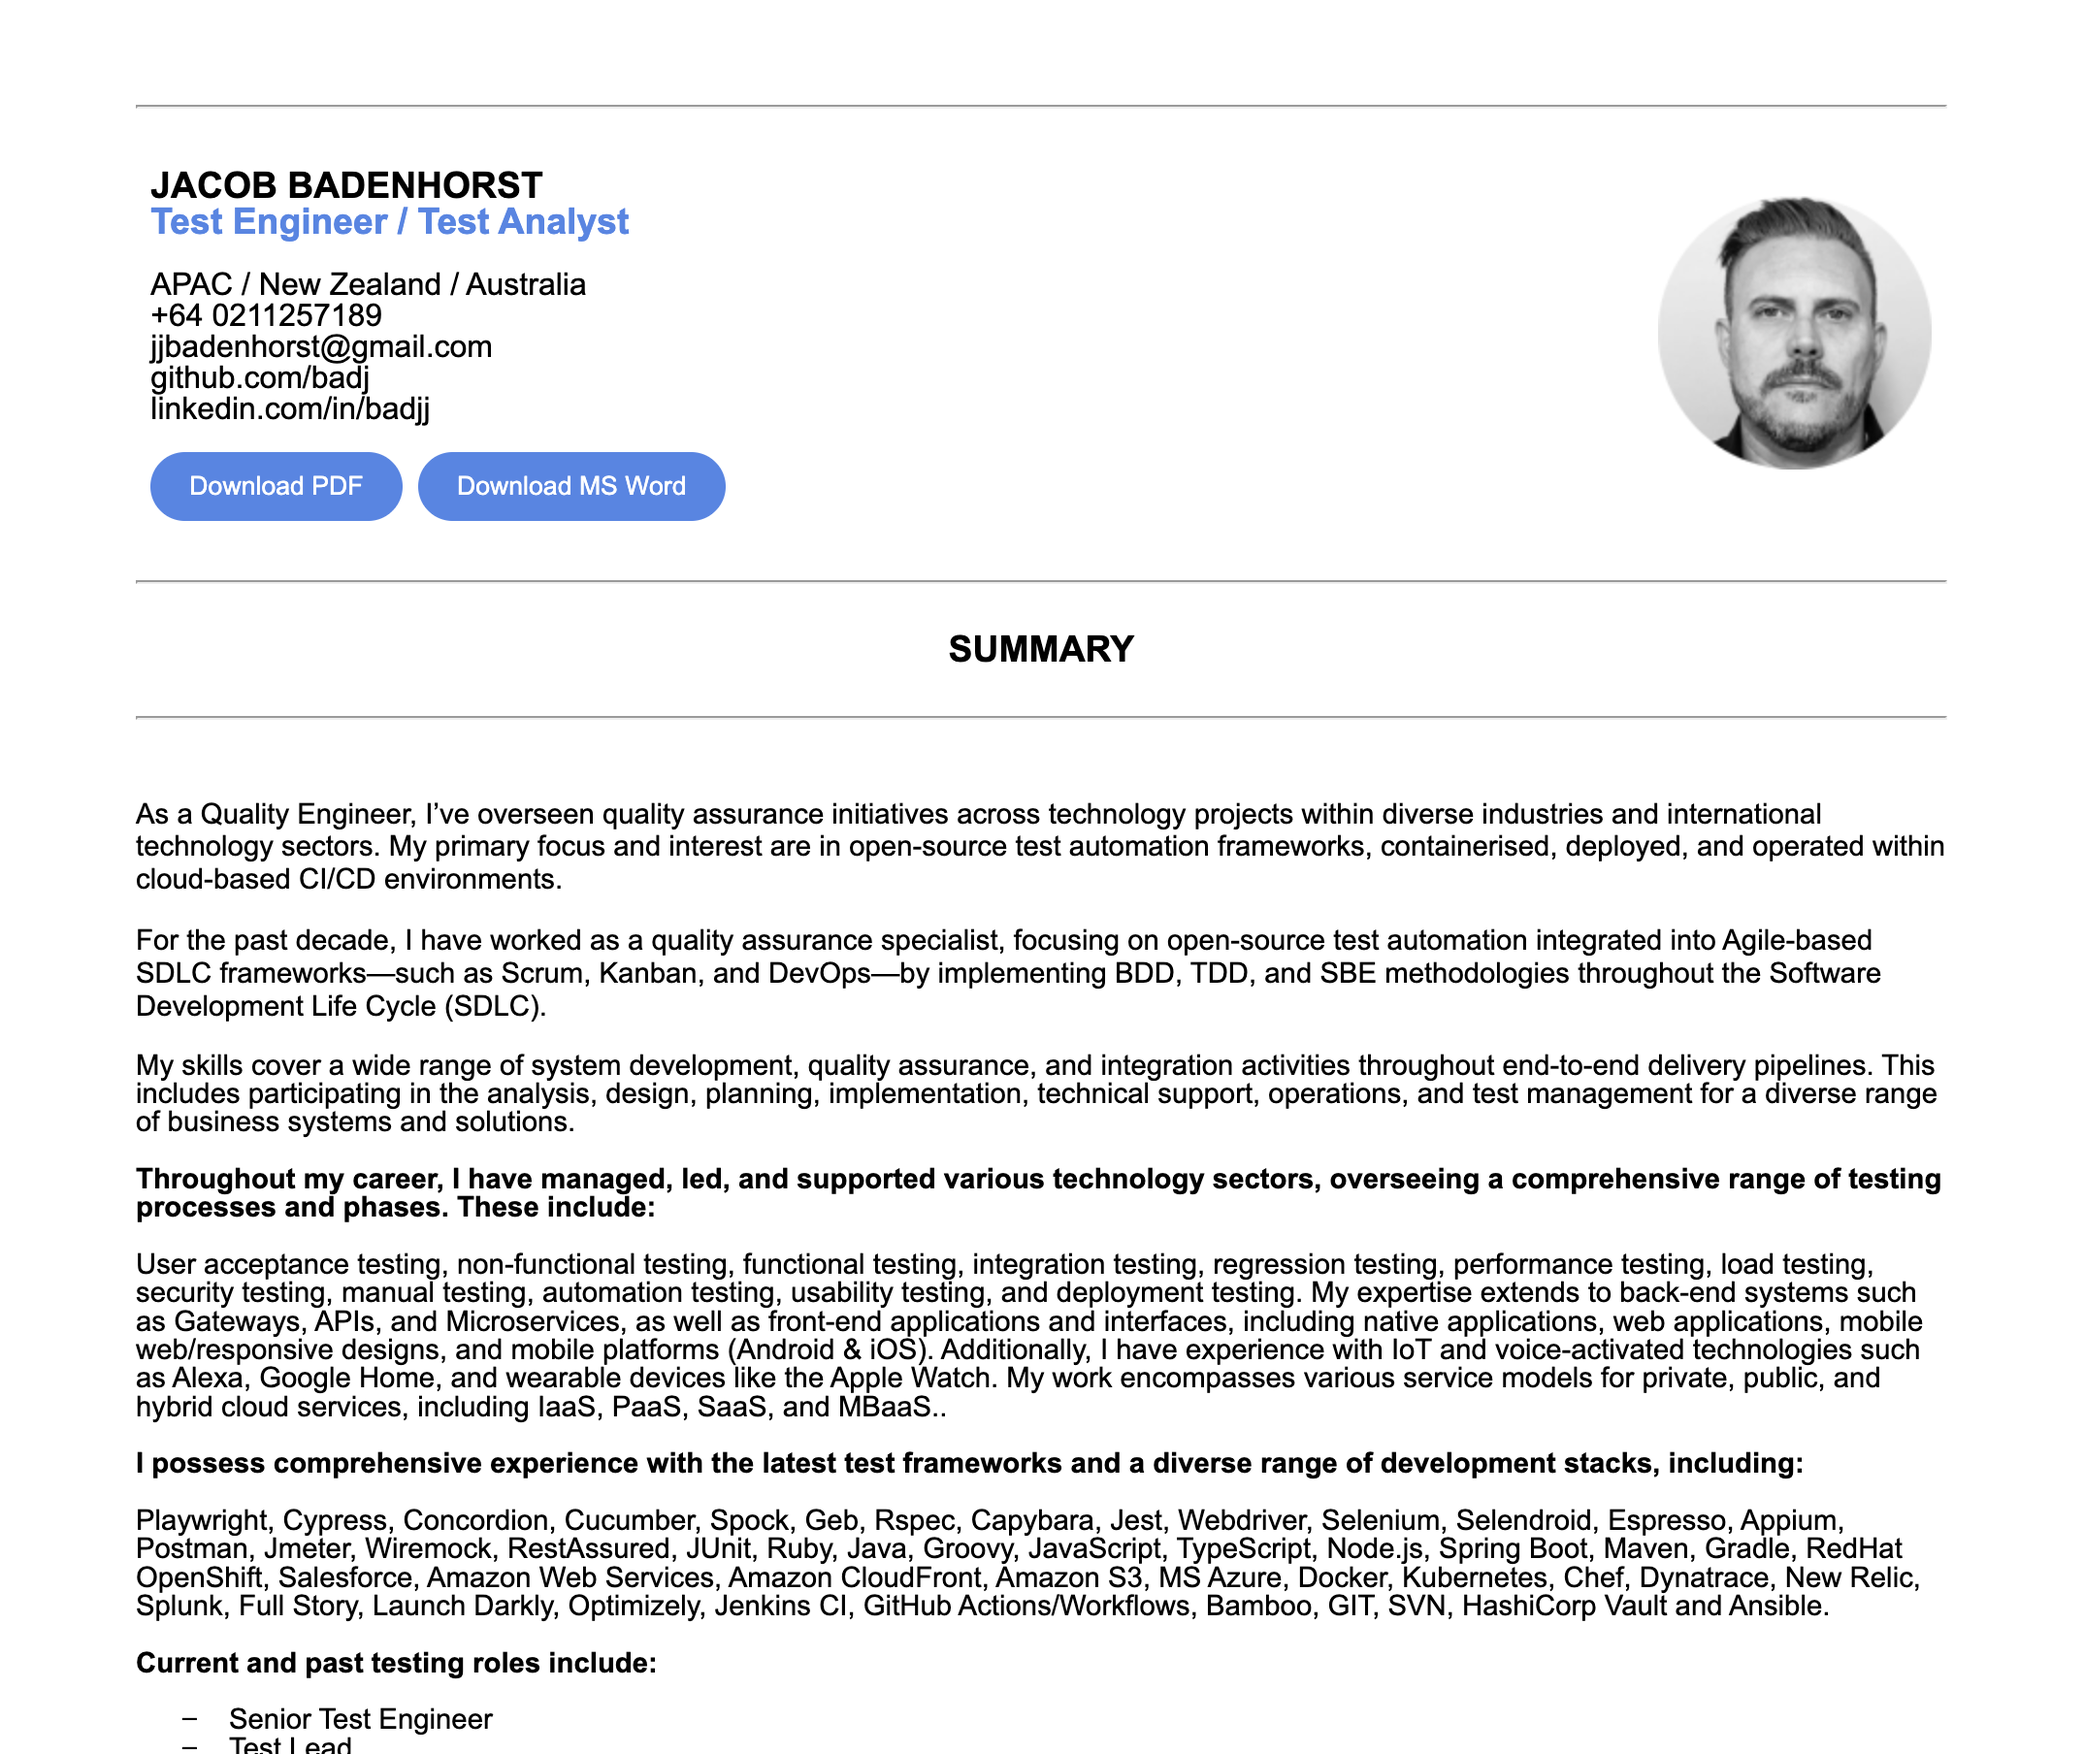
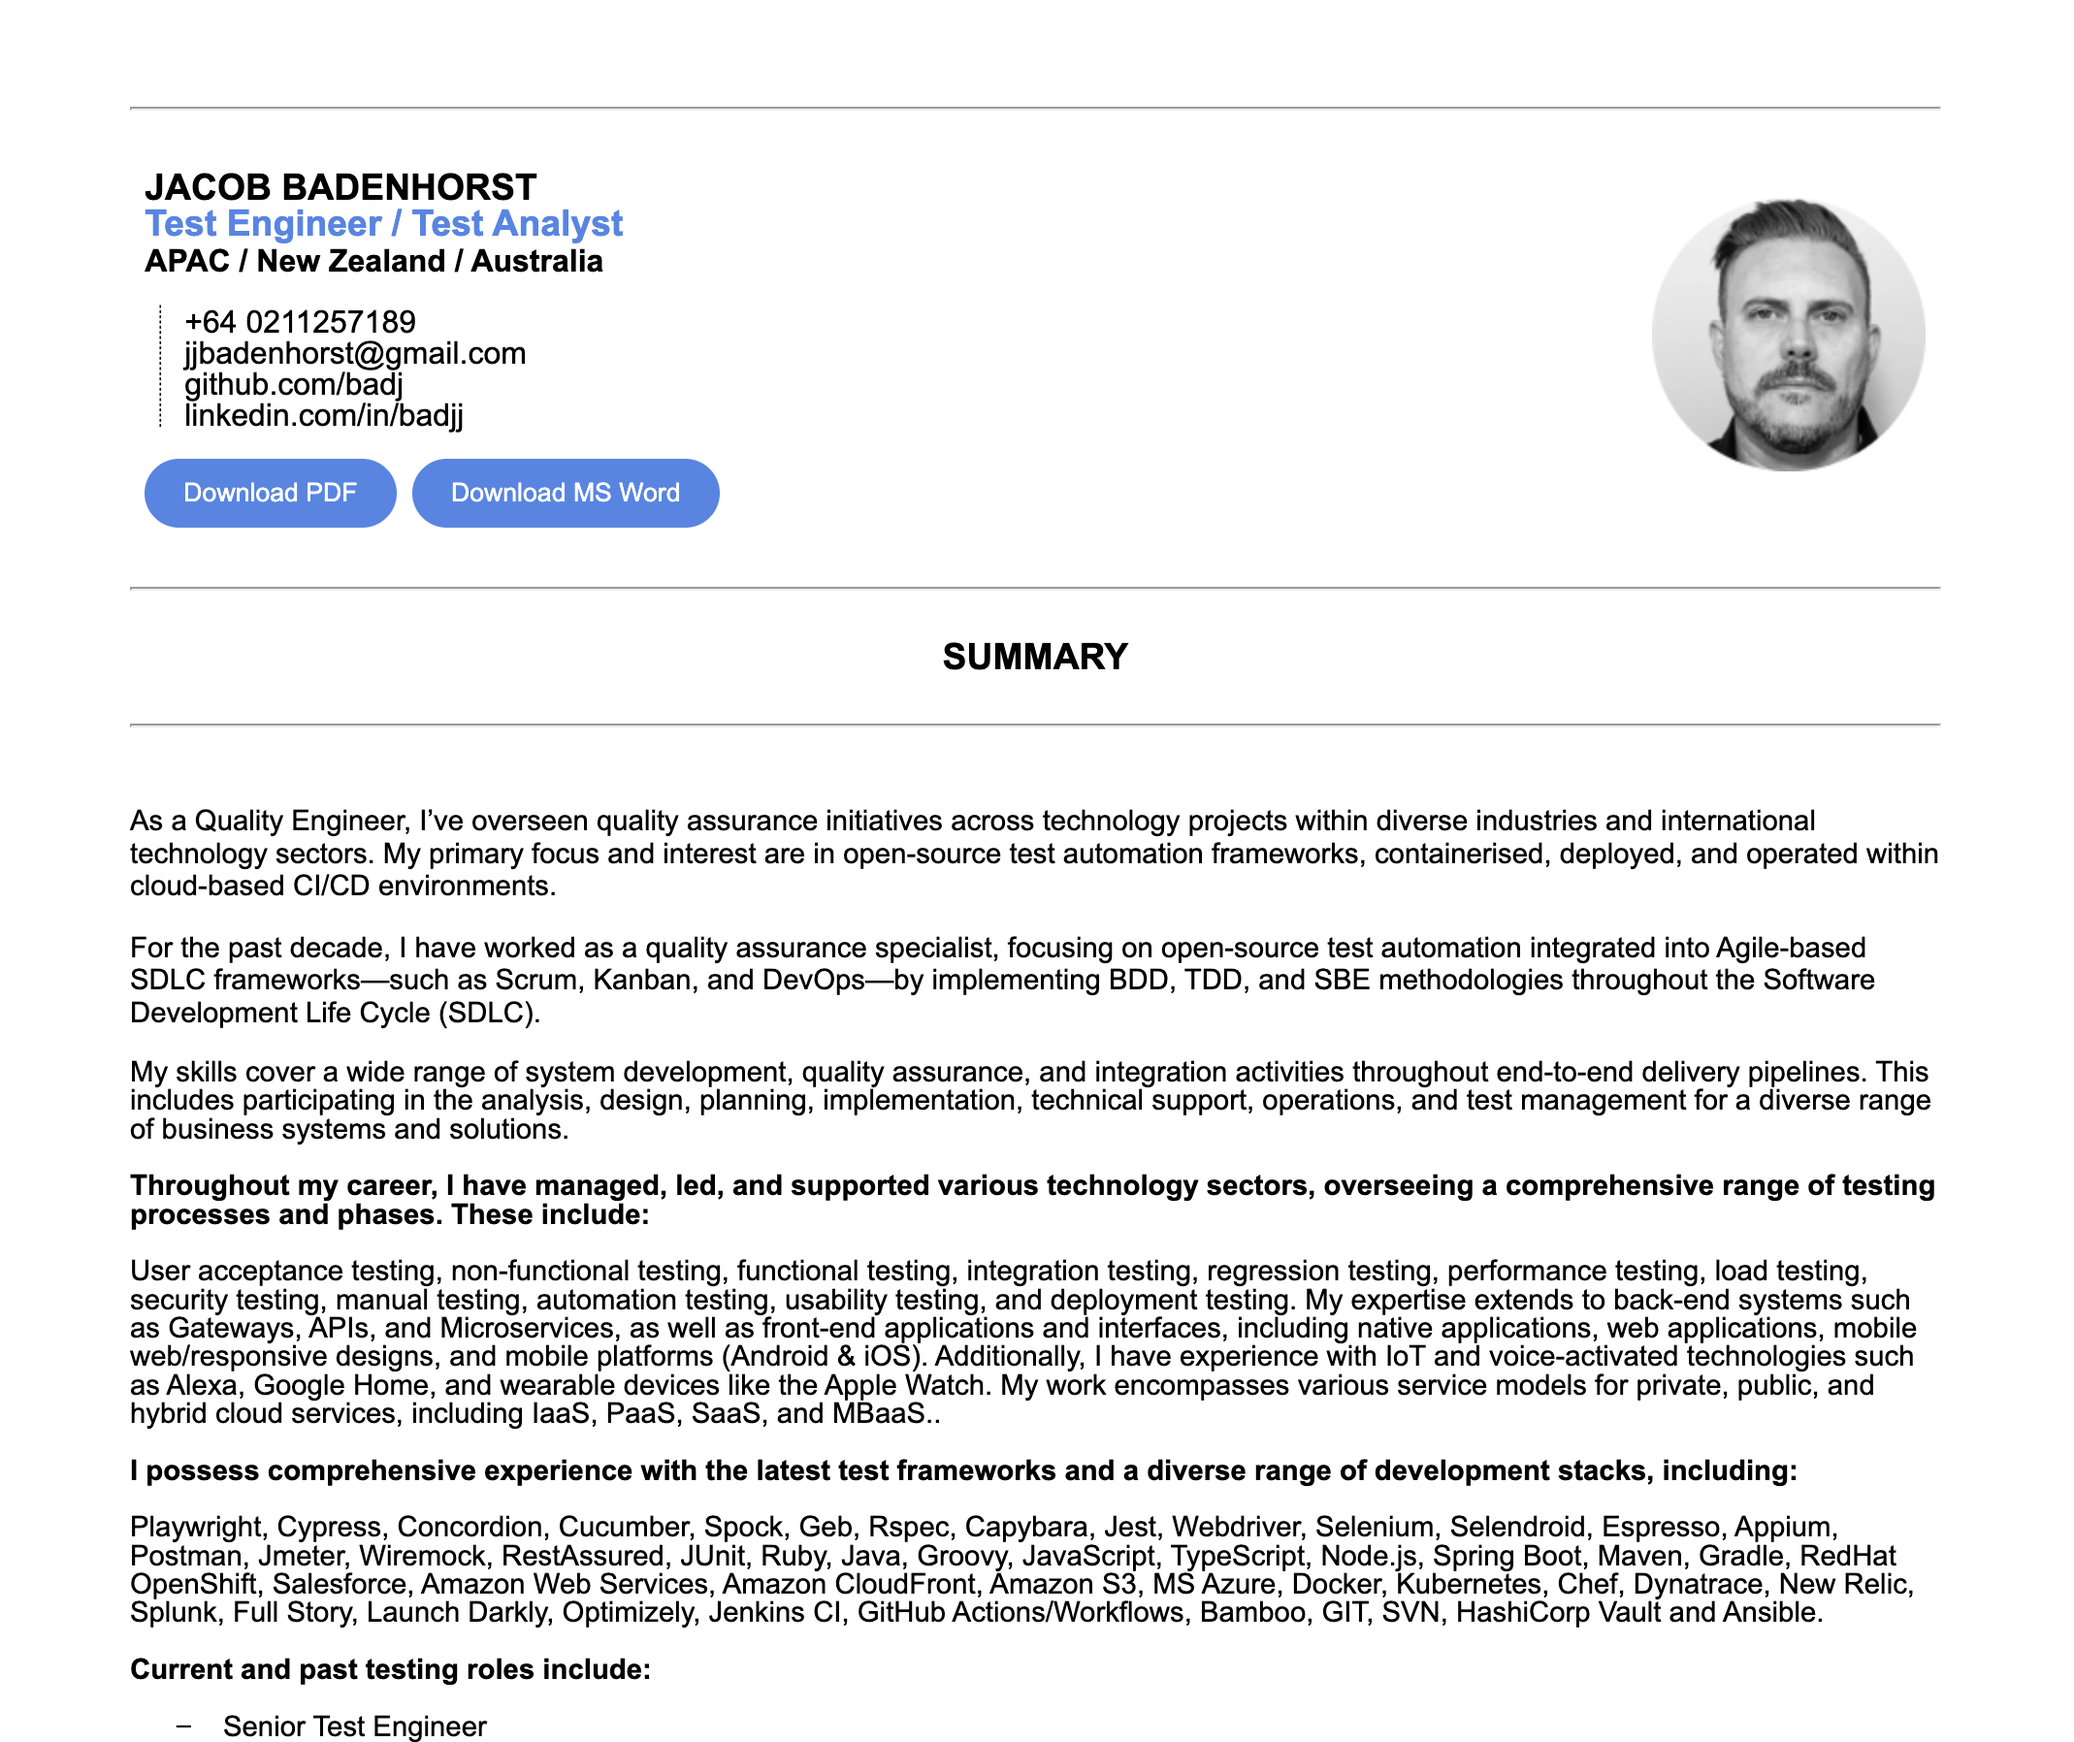
Updated contact details styling in the header section and uploaded the matching resume-preview image.

diff --git a/index.html b/index.html
@@ -124,12 +124,12 @@
             <p class="c41"><br />
                 <span class="c9 c13">JACOB BADENHORST</span></p>
             <p class="c5"><span class="c9 c18 c46">Test Engineer / Test Analyst</span><br />
+                <span style="font-size: 14pt;"><span class="c3"><span style="font-family: arial, helvetica, sans-serif;"><span style="font-size:16px; font-weight: 700;">APAC / New Zealand / Australia</span></span></span></span><br />
                 <br />
-                <span style="font-size: 14px;"><span class="c3"><span style="font-family: arial, helvetica, sans-serif;"><span style="font-size:16px;">APAC / New Zealand / Australia</span></span></span></span><br />
-                <span style="font-size: 10pt;"><span style="font-size:16px;"><span style="font-family:arial,helvetica,sans-serif;">+64 0211257189</span></span></span><br />
-                <a class="c9 c16 c34" href="mailto:jjbadenhorst@gmail.com" style="font-size: 11pt; color: #000;" target="_blank"><span style="font-size:16px;"><span style="font-family:arial,helvetica,sans-serif;">jjbadenhorst@gmail.com</span></span></a><br />
-                <a class="c9 c16 c34" href="https://www.github.com/badj" style="font-size: 11pt; color: #000;" target="_blank"><span style="font-size:16px;"><span style="font-family:arial,helvetica,sans-serif;">github.com/badj</span></span></a><br />
-                <a class="c9 c16 c34" href="https://linkedin.com/in/badjj" style="font-size: 11pt; color: #000;" target="_blank"><span style="font-size:16px;"><span style="font-family:arial,helvetica,sans-serif;">linkedin.com/in/badjj</span></span></a><br />
+                <span style="font-size: 10pt;"><span style="font-size:16px;"><span style="font-family:arial,helvetica,sans-serif;">┊ +64 0211257189</span></span></span><br />
+                <a class="c9 c16 c34" href="mailto:jjbadenhorst@gmail.com" style="font-size: 11pt; color: #000;" target="_blank"><span style="font-size:16px;"><span style="font-family:arial,helvetica,sans-serif;">┊ jjbadenhorst@gmail.com</span></span></a><br />
+                <a class="c9 c16 c34" href="https://www.github.com/badj" style="font-size: 11pt; color: #000;" target="_blank"><span style="font-size:16px;"><span style="font-family:arial,helvetica,sans-serif;">┊ github.com/badj</span></span></a><br />
+                <a class="c9 c16 c34" href="https://linkedin.com/in/badjj" style="font-size: 11pt; color: #000;" target="_blank"><span style="font-size:16px;"><span style="font-family:arial,helvetica,sans-serif;">┊ linkedin.com/in/badjj</span></span></a><br />
                 <br />
                 <span style="font-size:16px;"><span style="font-family:arial;"><a href="download/JJ_BADENHORST_CV_2025_with_photo.pdf" target="_blank" download="JJ_BADENHORST_CV_2025_with_photo.pdf"><button style="padding: 10px 20px; background-color: rgb(74, 134, 232); color: white; border-width: initial; border-style: none; border-color: initial; border-radius: 25px; cursor: pointer;">Download PDF</button></span></span><a style="text-align: center;">&nbsp;</a>&nbsp;<span style="font-size:16px;"><span style="font-family:arial;"><a href="download/JJ_BADENHORST_CV_2025_with_photo.docx" target="_blank" download="JJ_BADENHORST_CV_2025_with_photo.docx"><button style="padding: 10px 20px; background-color: rgb(74, 134, 232); color: white; border-width: initial; border-style: none; border-color: initial; border-radius: 25px; cursor: pointer;">Download MS Word</button></span></span></p>
         </td>
